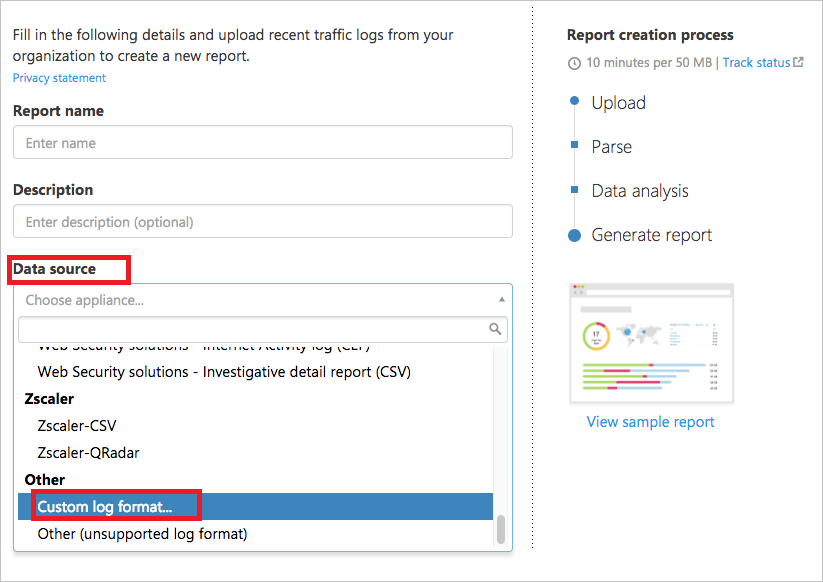
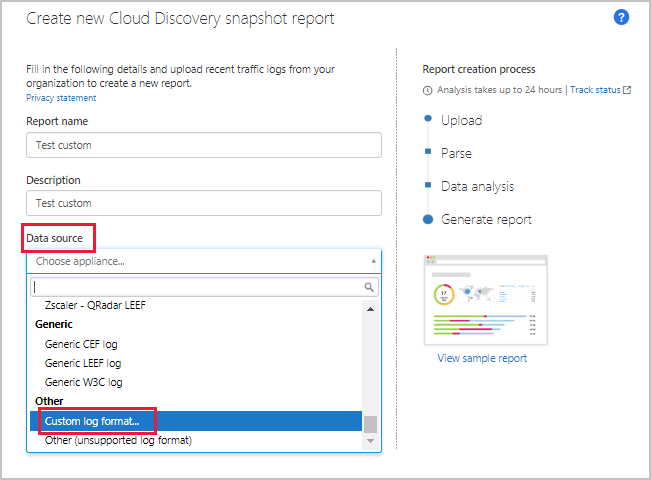
updates for Ux change

diff --git a/CloudAppSecurityDocs/custom-log-parser.md b/CloudAppSecurityDocs/custom-log-parser.md
@@ -7,7 +7,7 @@ keywords:
 author: rkarlin
 ms.author: rkarlin
 manager: mbaldwin
-ms.date: 6/11/2018
+ms.date: 10/29/2018
 ms.topic: conceptual
 ms.prod:
 ms.service: cloud-app-security
@@ -30,7 +30,7 @@ ms.suite: ems
 
 
 # Use a custom log parser
-Cloud App Security enables you to configure a custom parser to match and process the format of your logs so that they can be used for Cloud Discovery, even if they are from a firewall or device that is not explicitly supported by Cloud App Security. 
+Cloud App Security enables you to configure a custom parser to match and process the format of your logs so that they can be used for Cloud Discovery. Typically you would use a custom parser if the firewall or device is not explicitly supported by Cloud App Security. 
 
 The custom parser enables you to use logs from unsupported firewalls by following this process. 
 
@@ -49,7 +49,7 @@ To configure a custom CSV parser:
 
 4. Collect logs from your firewall and proxy, through which users in your organization access the Internet. Make sure to gather logs during times of peak traffic that are representative of all user activity in your organization. 
 
-5. Open the logs you want to process in a text editor and review their format, making sure that the column names in the log correspond to the fields in the **Custom log format** screen.
+5. Open the logs you want to process in a text editor. Review their format, making sure that the column names in the log correspond to the fields in the **Custom log format** screen.
 
    ![custom log parser](./media/log-data.png) 
 
@@ -63,7 +63,7 @@ To configure a custom CSV parser:
 
 7. Click **Save**. The custom log format your configured will be saved as the default custom parser. You can edit it at any time by clicking on Edit.
 
-8. Under **Choose the traffic logs** select the log file you modified and upload it. You can upload up to 20 files at once. Compressed and zipped files are also supported.  
+8. Under **Choose the traffic logs**, select the log file you modified and upload it. You can upload up to 20 files at once. Compressed and zipped files are also supported.  
   
 
 9. Click **Create**.  
@@ -71,12 +71,12 @@ To configure a custom CSV parser:
 10. After upload completes, the status message will appear at the top right corner of your screen letting you know that your log was successfully uploaded.  
   
 11. After you upload your log files, it will take some time for them to be parsed and analyzed.  
-    After processing of your log files completes, you will receive an email to notify you that it is done. 
+    After processing of your log files completes, you'll receive an email to notify you that it's done. 
   
-12. A notification banner will appear in the status bar at the top of the portal to update you with the processing status of your log files.  
+12. A notification banner will appear in the status bar at the top of the **Cloud Discovery dashboard**. The banner updates you with the processing status of your log files.  
     ![processing log file menu bar](./media/processing-log-file-menu-bar.png) 
    
-13. After the logs are uploaded successfully, you should see a notification letting you know that the log file processing completed successfully. At this point, a you can view the report either by clicking the link in the status bar, or by going to the Settings cog, and selecting **Cloud Discovery settings**.   
+13. After the logs are uploaded successfully, you should see a notification letting you know that the log file processing completed successfully. At this point, you can view the report either by clicking the link in the status bar, or by going to the Settings cog and selecting **Cloud Discovery settings**.   
   
      ![Discovery settings tab](./media/discovery-settings-tab.png)
 14. Then selecting **Manage snapshot reports** and select your snapshot report.
@@ -89,7 +89,7 @@ To configure a custom CSV parser:
 
 
 
-## See also
+## Next steps
  
 [Create snapshot Cloud Discovery reports](create-snapshot-cloud-discovery-reports.md)
 
